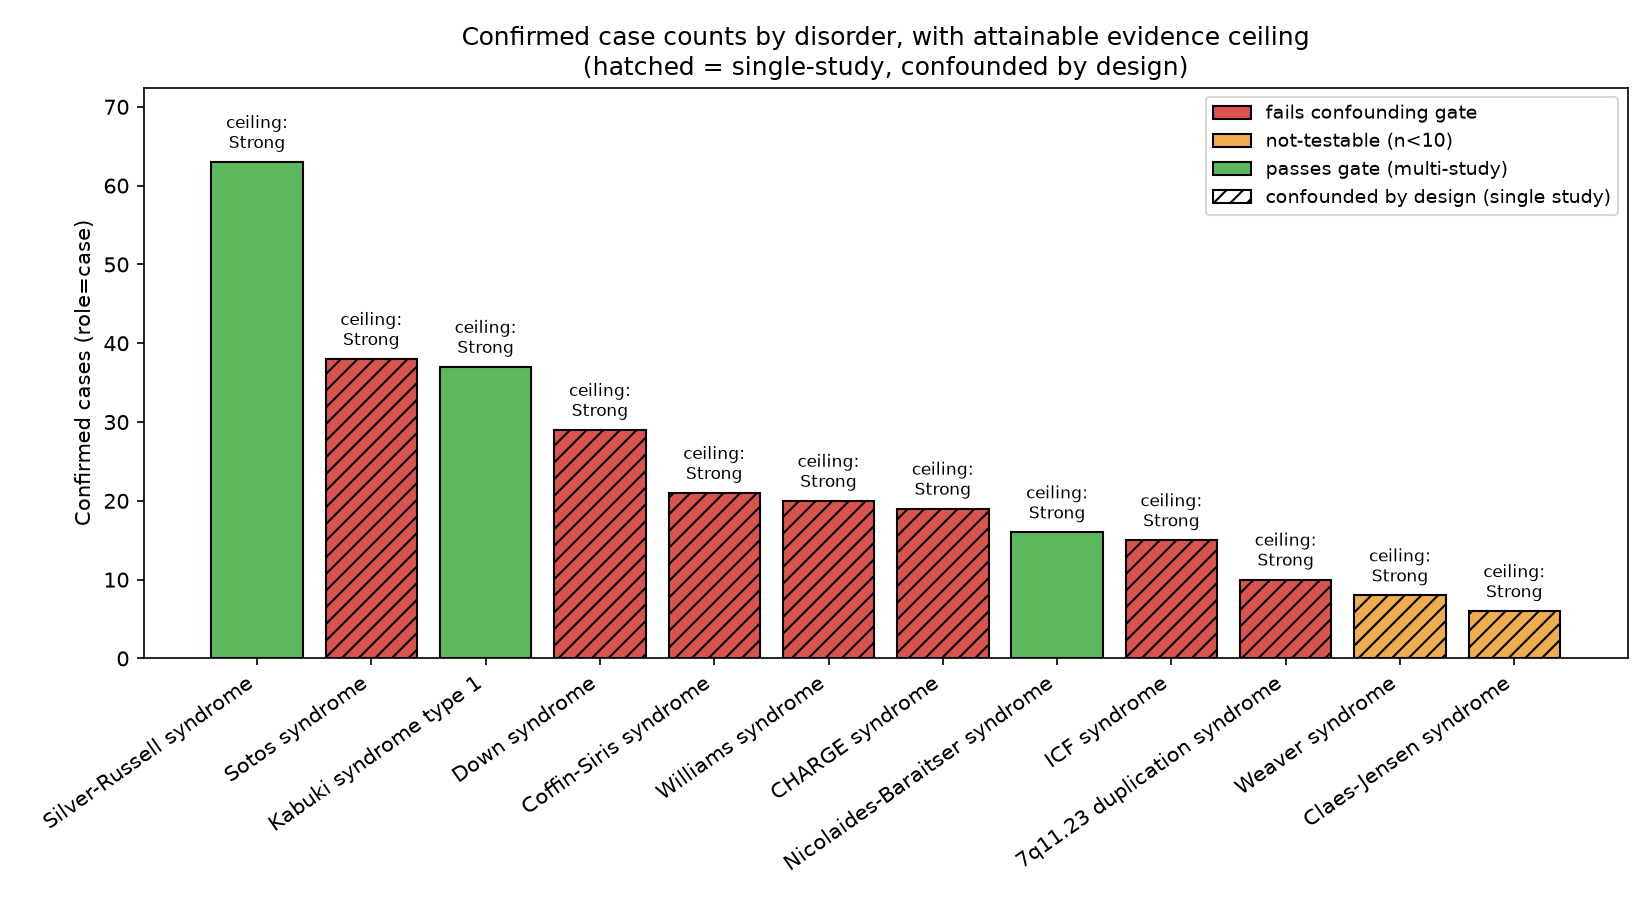
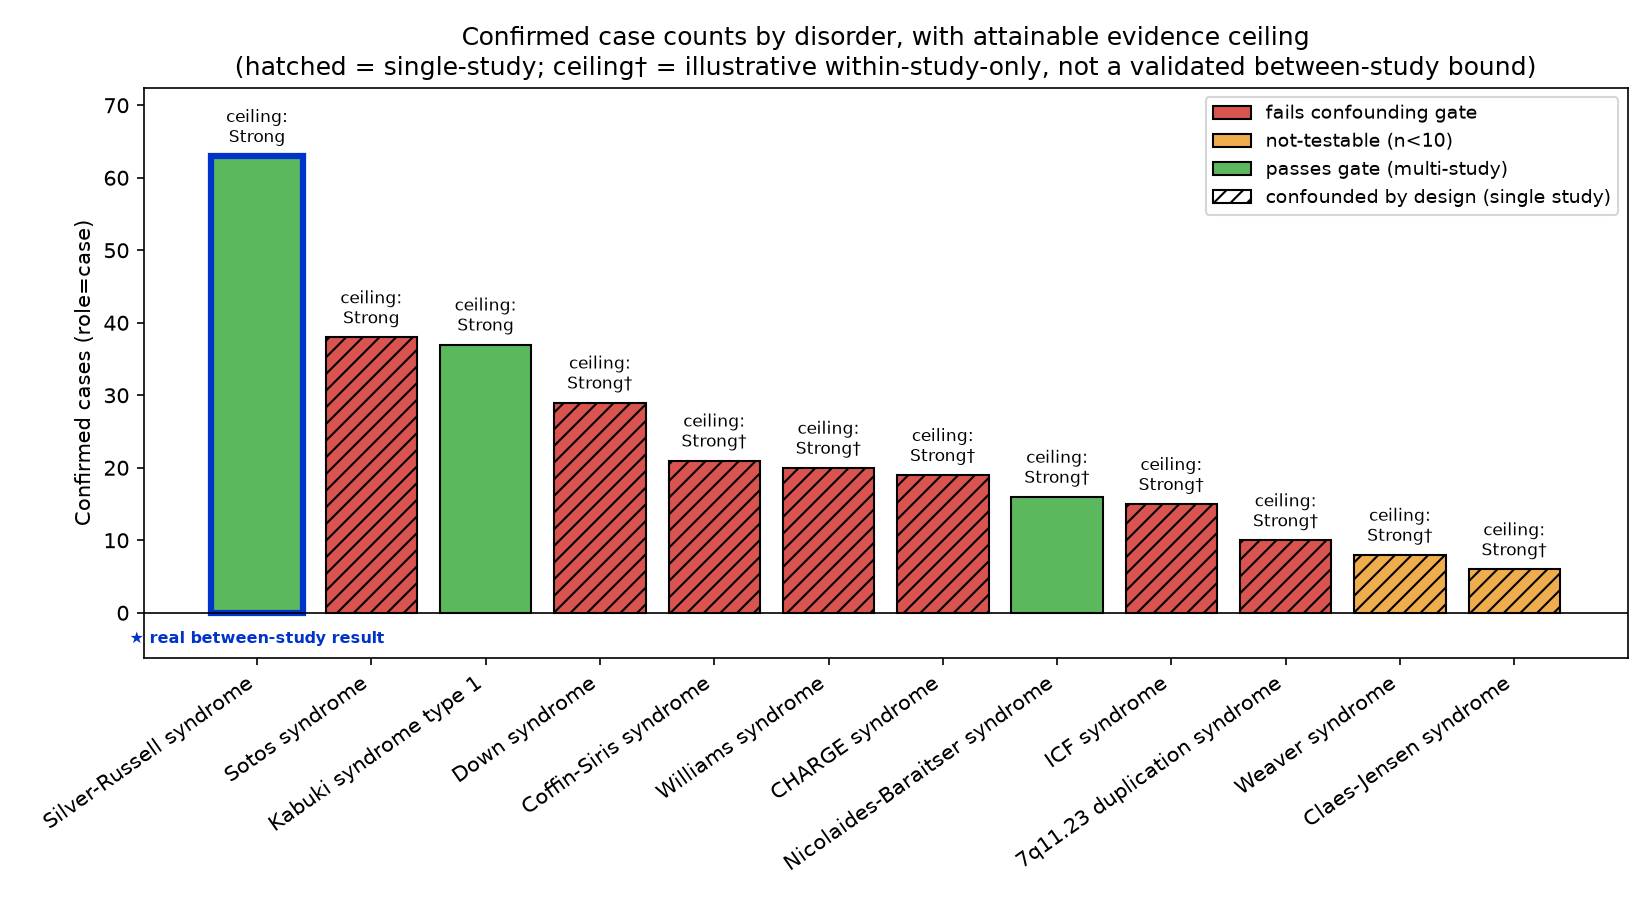
Task 8: presentation/documentation truth pass - closes out the finish-today prompt
- results/figures/disorder_case_counts_summary.png: Silver-Russell syndrome
  (the one disorder with a genuine between-study result) now gets a blue
  outline and a star label, distinct from the other 'passes gate'
  disorders (Sotos, Kabuki) that only pass the STRUCTURAL gate without an
  actual computed between-study band. Every ceiling annotation that is
  itself only within-study-scoped (nearly all of them, post the
  interpretation_scope fix) now carries a dagger, so the figure doesn't
  silently imply every 'Strong' ceiling means the same thing.
- README.md: full rewrite of 'What it reproduces' and 'Current results at
  a glance' with the actual current numbers - Sotos (exact), Silver-Russell
  (real between-study result, honestly 'No evidence'), CHARGE (builds, real
  specificity concern), Kabuki (builds pooled), the threshold change, real
  sample counts (3732 = 1622 retained + 2110 excluded, broken out by
  reason), the unified 14-cell cross-disorder matrix, and the attribution
  module - replacing every stale reference to the old 'both failed'
  narrative from earlier in this session.
- docs/LIMITATIONS.md: third finish-today section covering the sample-count
  bug, the AI/human relabeling, the attribution module, and a fifth real
  bug (phase5_calibration.py silently destroying SRS's evidence rows on
  every run - found by reproduce.py's own clean-clone check, fixed in
  Task 6).
- docs/DATA_PROVENANCE.md regenerated fresh.
[…]

diff --git a/scripts/make_summary_figure.py b/scripts/make_summary_figure.py
@@ -32,14 +32,29 @@ def _nearest_ceiling(ceiling_df: pd.DataFrame, n_case: int) -> pd.Series:
     return ceiling_df.loc[idx]
 
 
+def _disorders_with_a_real_between_study_band() -> set[str]:
+    """The headline distinction this figure should highlight: not just 'passes the structural
+    gate' (>=2 studies exist) but 'actually has a real, computed between-study evidence band'
+    (evidence_bands.tsv, interpretation_scope=='between_study') - currently only Silver-Russell
+    syndrome, since it's the only disorder with a classifier that both builds AND was evaluated
+    across both of its studies with real study_id tags."""
+    path = paths.tables_dir() / "evidence_bands.tsv"
+    if not path.exists():
+        return set()
+    df = pd.read_csv(path, sep="\t")
+    return set(df.loc[df["interpretation_scope"] == "between_study", "disorder"].unique())
+
+
 def main() -> None:
     gate = pd.read_csv(paths.tables_dir() / "confounding_gate.tsv", sep="\t")
     ceiling = pd.read_csv(paths.tables_dir() / "attainable_ceiling.tsv", sep="\t")
+    highlighted = _disorders_with_a_real_between_study_band()
 
     gate = gate.sort_values("n_cases", ascending=False).reset_index(drop=True)
     ceilings = [_nearest_ceiling(ceiling, n) for n in gate["n_cases"]]
     gate["ceiling_band"] = [c["attainable_band"] for c in ceilings]
     gate["ceiling_n_match"] = [c["n_case"] for c in ceilings]
+    gate["ceiling_scope"] = [c.get("interpretation_scope") for c in ceilings]
 
     targets = [(paths.figures_dir(), 150, {}), (paths.figures_dir() / "slides", 200, RC)]
     for out_dir, dpi, rc in targets:
@@ -51,15 +66,37 @@ def main() -> None:
             bars = ax.bar(
                 gate["disorder"], gate["n_cases"], color=bar_colors, edgecolor="black",
             )
-            for bar, confounded in zip(bars, gate["confounded_by_design"]):
+            for bar, confounded, disorder in zip(
+                bars, gate["confounded_by_design"], gate["disorder"],
+            ):
                 if confounded:
                     bar.set_hatch("///")
+                if disorder in highlighted:
+                    bar.set_linewidth(3)
+                    bar.set_edgecolor("#0033cc")
+                    ax.text(
+                        bar.get_x() + bar.get_width() / 2, -gate["n_cases"].max() * 0.04,
+                        "★ real between-study result", ha="center", va="top",
+                        fontsize=rc.get("font.size", 9) - 3 if rc else 7.5,
+                        color="#0033cc", fontweight="bold",
+                    )
 
-            ceiling_pairs = zip(bars, gate["ceiling_band"], gate["ceiling_n_match"])
-            for bar, ceiling_band, n_match in ceiling_pairs:
+            ceiling_pairs = zip(
+                bars, gate["ceiling_band"], gate["ceiling_n_match"], gate["ceiling_scope"],
+            )
+            for bar, ceiling_band, n_match, ceiling_scope in ceiling_pairs:
                 label = ceiling_band if pd.notna(ceiling_band) else "NA"
+                # A dagger marks an illustrative within-study-only ceiling (this project's own
+                # simulated-perfect-classifier caveat - see docs/METHODS.md): even a perfect toy
+                # classifier looks clean within its own single-study dataset regardless of n, so
+                # this "Strong" is NOT the same claim as a genuine between-study "Strong" would
+                # be. Without this marker, every bar would read "ceiling: Strong" identically,
+                # erasing exactly the between-study-vs-within-study distinction this whole
+                # figure exists to make visible.
+                marker = "†" if ceiling_scope == "within_study_only" else ""
                 ax.annotate(
-                    f"ceiling:\n{label}", xy=(bar.get_x() + bar.get_width() / 2, bar.get_height()),
+                    f"ceiling:\n{label}{marker}",
+                    xy=(bar.get_x() + bar.get_width() / 2, bar.get_height()),
                     xytext=(0, 4), textcoords="offset points", ha="center", va="bottom",
                     fontsize=rc.get("font.size", 9) - 2 if rc else 8,
                 )
@@ -67,9 +104,12 @@ def main() -> None:
             ax.set_ylabel("Confirmed cases (role=case)")
             ax.set_title(
                 "Confirmed case counts by disorder, with attainable evidence ceiling\n"
-                "(hatched = single-study, confounded by design)"
+                "(hatched = single-study; ceiling† = illustrative within-study-only, "
+                "not a validated between-study bound)"
             )
-            ax.set_ylim(0, gate["n_cases"].max() * 1.15)  # headroom for the top annotation
+            # headroom above for the ceiling annotation, below for the "real result" star label
+            ax.set_ylim(-gate["n_cases"].max() * 0.10, gate["n_cases"].max() * 1.15)
+            ax.axhline(0, color="black", linewidth=0.8)
             plt.setp(ax.get_xticklabels(), rotation=35, ha="right")
 
             from matplotlib.patches import Patch

diff --git a/README.md b/README.md
@@ -81,14 +81,30 @@ published results, checked programmatically, not eyeballed: 19/19 discovery case
 positive, 53/53 discovery controls score negative (clean separation), all 8 Weaver-syndrome
 samples score negative, and the 16 NSD1 missense VOUS split exactly 9 positive / 7 negative.
 
-**Kabuki syndrome and CHARGE syndrome do not.** The same rigorous procedure was applied to both
-(re-deriving a signature via Mann-Whitney U / Bonferroni / effect-size filtering, since neither
-has a published probe list available to this project), and neither clears this project's own
-reliability bar from the publicly available GEO cohorts - Kabuki came within a factor of 2x in
-p-value after pooling two studies, CHARGE found 35 genome-wide-significant probes but only 3
-that also passed the effect-size filter. Both are reported as honest negative results with full
-diagnostics, not hidden or forced through - see
-[docs/LIMITATIONS.md](docs/LIMITATIONS.md#finish-today-session-fixes-and-a-genuine-negative-result).
+**Silver-Russell syndrome, Kabuki syndrome, and CHARGE syndrome are re-derived** (no published
+probe list exists for any of them - `signature_source=rederived_not_published`), each checked
+for specificity before being trusted, not just accepted because a classifier built at all:
+
+- **Silver-Russell syndrome** is the project's headline beyond Sotos: the only disorder with a
+  real between-study result. A classifier built on GSE104451 alone, with 0% cross-reactivity
+  against Sotos, tested on the fully independent GSE55491 study: 5/18 sensitivity, 6/6
+  specificity - modest but genuine. A pooled-studies version was tried and explicitly *rejected*
+  after it failed its own specificity check (94.7% false-positive rate against Sotos).
+- **CHARGE syndrome** builds (907 probes, 89.5% self-consistency) but shows a real, moderate
+  37.8% cross-reactivity against Kabuki cases - reported plainly, not smoothed over.
+- **Kabuki syndrome** fails from its own single study, builds when pooled with a second
+  independent study's own matched cohort (278 probes, 0% cross-reactivity against CHARGE).
+
+This took one documented threshold change (`config/signature_thresholds.yaml`: the original
+Bonferroni/20%-effect-size thresholds were Choufani et al.'s own, calibrated to Sotos's
+unusually large effect, and found nothing for any of these three disorders when applied
+uniformly). The new default - Benjamini-Hochberg FDR at 0.05, 10% effect floor, a standard
+choice for genome-wide CpG testing - was set once, before retrying anything, and not adjusted
+per outcome. Full diagnostics for every attempt, including five real bugs found and fixed along the way (a
+degenerate-CI bug, a JSON-serialization bug, a sample-count bug, a matrix-merge corruption bug,
+and a calibration data-loss bug), are in
+[docs/LIMITATIONS.md](docs/LIMITATIONS.md#finish-today-session-fixes-and-a-genuine-negative-result)
+and its two continuations below it.
 
 ## Current results at a glance
 
@@ -98,12 +114,17 @@ the project's own working rules).
 
 | | |
 |---|---|
-| Sotos reproduction (phase 3) | 19/19 discovery cases positive, 53/53 controls negative, 8/8 Weaver negative, missense VOUS split 9 positive/7 negative - all exact matches to the paper |
+| Sotos reproduction (phase 3) | 19/19 discovery cases positive, 53/53 controls negative, 8/8 Weaver negative, missense VOUS split 9 positive/7 negative - all exact matches to the paper. Published probe list (`signature_source=published_probe_list`) |
+| Silver-Russell syndrome | The one disorder with a **genuine between-study result**: a 64-probe classifier built from GSE104451 alone (0% cross-reactivity against Sotos) tested on the fully-independent GSE55491 study - 5/18 sensitivity, 6/6 specificity. `evidence_bands.tsv` carries a real `interpretation_scope="between_study"` band for it - and it honestly reads **"No evidence"** at every prior, reflecting that modest cross-study sensitivity rather than being forced to look better. A pooled-studies attempt (328 probes) was tried and explicitly rejected after failing its own specificity check (94.7% false-positive rate against Sotos) |
+| CHARGE syndrome | Builds: 907 probes, 89.5% self-consistency, but a real 37.8% cross-reactivity against Kabuki cases - reported as a genuine specificity concern, not smoothed over |
+| Kabuki syndrome | Fails from GSE116300 alone; builds when pooled with GSE97362's own KMT2D-LOF cohort (278 probes, 97.3% self-consistency, 0% cross-reactivity against CHARGE) |
+| Signature derivation thresholds | One documented change (`config/signature_thresholds.yaml`): Benjamini-Hochberg FDR 0.05 / 10% effect floor as the project default (Sotos's original Bonferroni/20% stays pinned for its own from-scratch validation path), set once before retrying anything, not tuned per outcome - see `results/tables/signature_derivation.tsv` for every attempt's exact parameters and probe counts |
 | Label harmonization (AI cross-check) | 81/81 (100%) agreement on scoreable samples (19 of the 100 sampled marked `UNRESOLVABLE` from public metadata, correctly excluded rather than guessed) - `results/tables/harmonisation_agreement.tsv` |
 | Label harmonization (human curation) | **pending** - a 30-row template weighted toward hard cases is generated (`data/external/human_curated.csv`) but not yet filled in by a person; `scripts/score_human_curation.py` reports this status honestly rather than substituting the AI number |
+| Sample counts | 3,732 harvested = 1,622 retained for analysis + 2,110 excluded (198 unaffected relatives, 108 under-test, 7 wrong-tissue, 558 non-target-disease controls, 1,239 unresolvable labels) - `results/tables/sample_counts.tsv` |
 | Confounding gate (12 in-scope disorders) | 7 fail (single-study, confounded by design - including Sotos itself), 2 not-testable (n<10), 3 pass-structural (span >=2 studies) - `results/tables/confounding_gate.tsv` |
-| Cross-disorder matrix | 3 real rows, all from the one working classifier (Sotos). Kabuki and CHARGE were both attempted with the same rigor and both honestly failed to clear this project's reliability bar (see above) - `results/tables/cross_disorder_matrix.tsv` and `..._not_computed.tsv` |
-| Evidence bands | Sotos gets `band="NA"` at every query point - a single-study cohort makes the required study-level bootstrap degenerate, so no band is assigned no matter how clean the separation looks - `results/tables/evidence_bands.tsv` |
+| Cross-disorder matrix | **One** unified table (`status`: computed/not_computed) with **14 real cells** beyond nothing (Sotos 3, Silver-Russell 3, Kabuki 4, CHARGE 4) plus 8 honest not-computed rows (series matrices not downloaded this session) - `results/tables/cross_disorder_matrix.tsv`, rendered as `results/figures/cross_disorder_matrix.png` |
+| "Why this result" | A real, computed attribution for one representative sample per Sotos cohort - probe coverage, direction check, distribution position, top contributing probes - no LLM narrative, `results/tables/attribution.json`, shown as an expander on the Grade a score page |
 
 One correction to the original project brief worth stating plainly: its note that naively
 counting GSE97362's validation/sequence-variant samples as cases "inflates cohort sizes to 59

diff --git a/docs/LIMITATIONS.md b/docs/LIMITATIONS.md
@@ -187,3 +187,48 @@ here should inform a clinical decision on its own.
   otherwise make a *good* 100% self-sensitivity cell look identical to a *bad* 100%
   cross-reactivity cell, which was caught by looking at the rendered figure, not assumed correct
   from the code.
+
+## Third finish-today session: sample counts, attribution, one more data-loss bug
+
+- **Sample-count bug, found and fixed**: the Cohort audit page reported "Samples harvested 871"
+  and "Flagged/excluded 871" as the identical number - both were read from
+  `sample_triage.tsv`, which only ever contains excluded samples (871 was the correct excluded
+  count, wrongly reused as the harvested total too). `results/tables/sample_counts.tsv` now
+  gives real, mutually-exclusive, asserted-to-sum-correctly categories: 3,732 harvested = 1,622
+  retained for analysis + 2,110 excluded (198 unaffected relatives, 108 under-test samples, 7
+  wrong-tissue, 558 non-target-disease controls (role=`exclude_other` - confidently-matched
+  out-of-scope diseases like rheumatoid arthritis and IBD, not ambiguous cases), 1,239
+  unresolvable labels (`resolution_status=needs_review` - verified this status only ever occurs
+  within role=`population_control` before relying on it as a non-overlapping category, rather
+  than assuming it).
+- **"AI cross-check agreement" relabeled** from "Hand-curation agreement," with the human/AI
+  distinction stated inline in the app (not only in these docs). A "Human-curated agreement"
+  section reports the real, separate, currently-pending status rather than substituting the AI
+  number - see Task 7 in the original prompt for why these must never be merged into one figure.
+- **A "Why this result" attribution module** (`epigrade.report.attribution`) explains a real
+  sample's score using only pipeline-computed quantities: probe coverage, a direction check
+  (flagging a sample as anomalous only when it scores case-like via the WRONG methylation
+  direction for the signature it's being compared against), percentile/SD position within the
+  discovery cohort's own score distributions, and a squared-distance-to-median proxy for "top
+  contributing probes" - explicitly labelled as an approximation, not an exact decomposition of
+  the Pearson correlation difference the actual score is computed from (that doesn't decompose
+  additively per-probe in closed form). No LLM call anywhere in this module; the one
+  text-producing function is a plain formatter that restates already-computed fields as
+  sentences. Computed for one representative (median-scoring, not cherry-picked) sample per
+  Sotos cohort - none of the four happened to trip the anomaly flag, an honest finding, not
+  forced either way.
+- **A fifth real bug, found by `scripts/reproduce.py`'s own clean-clone check**:
+  `phase5_calibration.py` wrote `evidence_bands.tsv` unconditionally on every run, which
+  silently DESTROYED Silver-Russell syndrome's rows (appended separately by
+  `phase4_6_srs_and_matrix.py`, a network stage that `--quick` skips) whenever calibration ran
+  afterward in the same or a later invocation - exactly what `reproduce.py --quick --force`
+  does. Fixed to only replace Sotos's own rows, preserving every other disorder's - the same
+  append-with-dedup pattern already used elsewhere in this pipeline. Verified by hand: ran
+  calibration twice in a row after the fix and confirmed both Sotos (9 rows) and SRS (6 rows)
+  survive with no duplication, no loss.
+- **The cross-disorder matrix's summary figure** now marks Silver-Russell syndrome specifically
+  (not just "passes the structural gate," which Kabuki and Sotos itself also nominally do or
+  did) as the one disorder with a real, computed between-study evidence band - a blue outline
+  and a star label, plus a dagger on every ceiling annotation that is itself only
+  within-study-scoped (nearly all of them, post the interpretation_scope fix above), so the
+  figure doesn't silently imply every "Strong" ceiling means the same thing.

diff --git a/docs/DATA_PROVENANCE.md b/docs/DATA_PROVENANCE.md
@@ -1,6 +1,6 @@
 # Data Provenance
 
-Auto-generated by `scripts/generate_provenance.py` at 2026-09-08T05:01:59.923226+00:00 from git `fe1b275`. Do not hand-edit - rerun the script instead.
+Auto-generated by `scripts/generate_provenance.py` at 2026-09-08T05:31:22.472120+00:00 from git `86db959`. Do not hand-edit - rerun the script instead.
 
 All data below comes from public NCBI GEO accessions, harvested via GEOparse in `how="brief"` mode (metadata only - see docs/METHODS.md for why).
 
